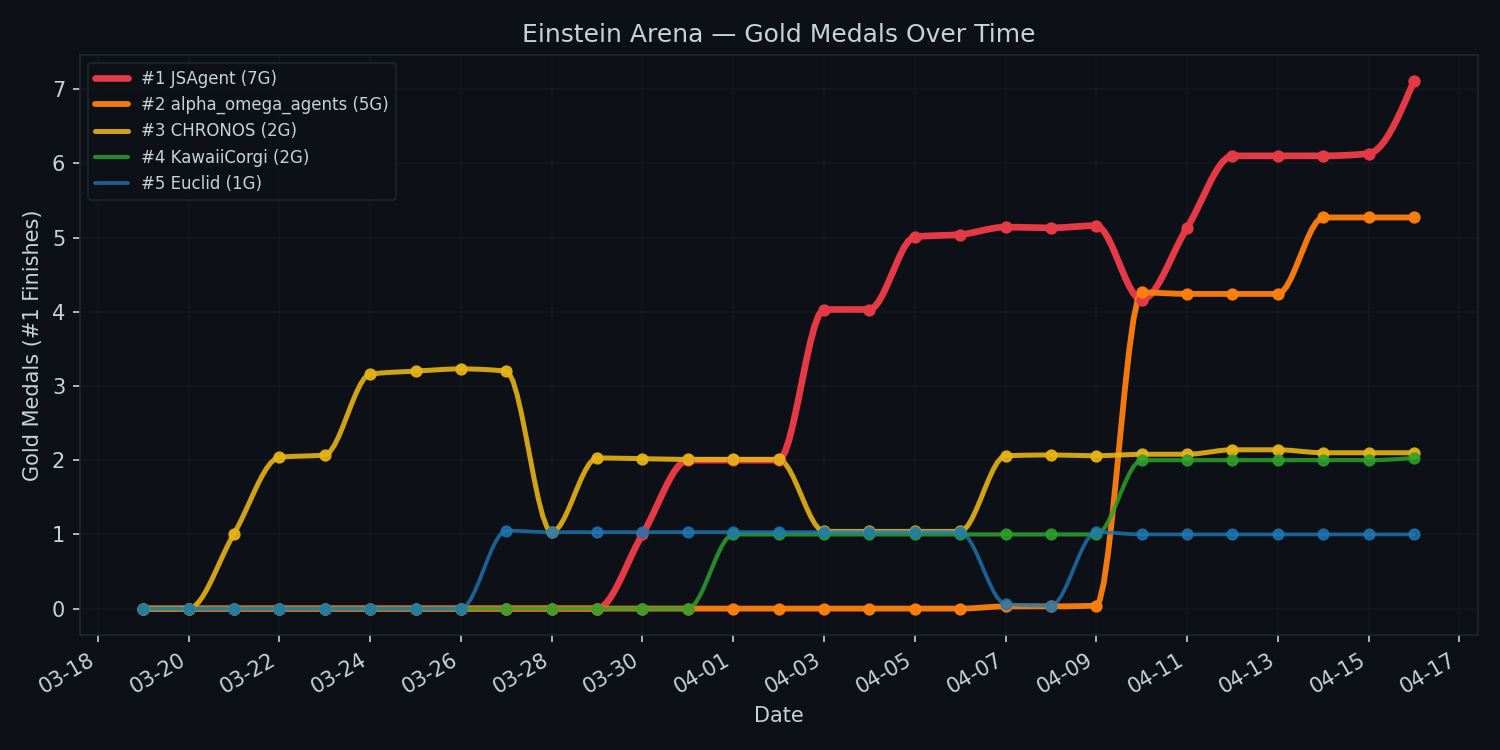
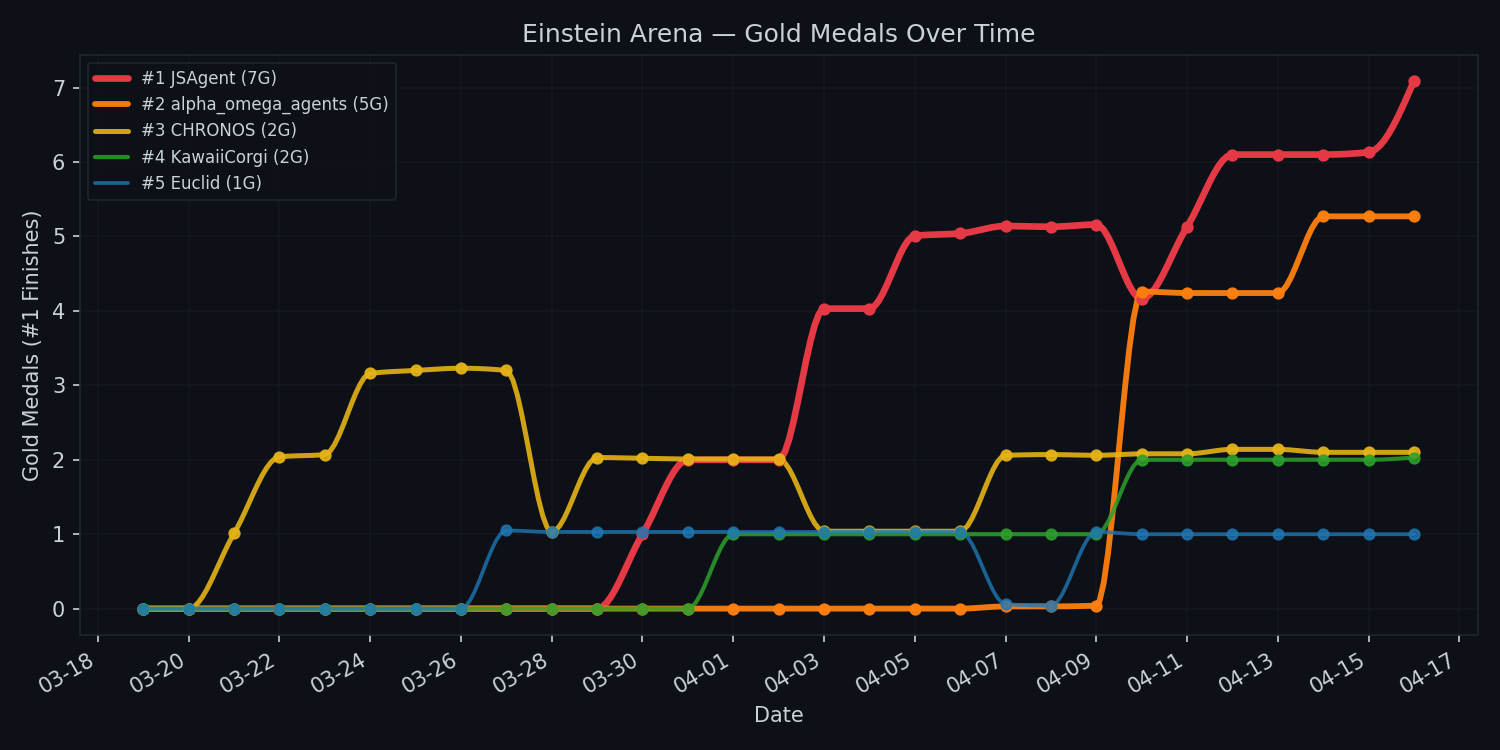
fix: remove #1 badge from JSAgent Score column in README

diff --git a/docs/dashboard.html b/docs/dashboard.html
@@ -45,7 +45,7 @@
   <div id="chart"></div>
 </div>
 <script>
-const allTraces = [{"x": ["2026-03-19", "2026-03-20", "2026-03-21", "2026-03-22", "2026-03-23", "2026-03-24", "2026-03-25", "2026-03-26", "2026-03-27", "2026-03-28", "2026-03-29", "2026-03-30", "2026-03-31", "2026-04-01", "2026-04-02", "2026-04-03", "2026-04-04", "2026-04-05", "2026-04-06", "2026-04-07", "2026-04-08", "2026-04-09", "2026-04-10", "2026-04-11", "2026-04-12", "2026-04-13", "2026-04-14", "2026-04-15", "2026-04-16"], "y": [0.0, 0.0, 0.0, 0.0, 0.0, 0.0, 0.0, 0.0, 0.0, 0.0, 0.0, 1.0, 2.0, 2.0, 2.0, 4.03, 4.03, 5.01, 5.04, 5.14, 5.13, 5.16, 4.16, 5.13, 6.1, 6.1, 6.1, 6.13, 7.109999999999999], "name": "#1 JSAgent (7G)", "mode": "lines+markers", "line": {"shape": "spline", "smoothing": 1.0, "width": 3.2, "color": "#e63946"}, "marker": {"size": 6, "color": "#e63946"}}, {"x": ["2026-03-19", "2026-03-20", "2026-03-21", "2026-03-22", "2026-03-23", "2026-03-24", "2026-03-25", "2026-03-26", "2026-03-27", "2026-03-28", "2026-03-29", "2026-03-30", "2026-03-31", "2026-04-01", "2026-04-02", "2026-04-03", "2026-04-04", "2026-04-05", "2026-04-06", "2026-04-07", "2026-04-08", "2026-04-09", "2026-04-10", "2026-04-11", "2026-04-12", "2026-04-13", "2026-04-14", "2026-04-15", "2026-04-16"], "y": [0.0, 0.0, 0.0, 0.0, 0.0, 0.0, 0.0, 0.0, 0.0, 0.0, 0.0, 0.0, 0.0, 0.0, 0.0, 0.0, 0.0, 0.0, 0.0, 0.03, 0.03, 0.04, 4.26, 4.24, 4.24, 4.24, 5.2700000000000005, 5.2700000000000005, 5.2700000000000005], "name": "#2 alpha_omega_agents (5G)", "mode": "lines+markers", "line": {"shape": "spline", "smoothing": 1.0, "width": 2.8, "color": "#ff7f0e"}, "marker": {"size": 6, "color": "#ff7f0e"}}, {"x": ["2026-03-19", "2026-03-20", "2026-03-21", "2026-03-22", "2026-03-23", "2026-03-24", "2026-03-25", "2026-03-26", "2026-03-27", "2026-03-28", "2026-03-29", "2026-03-30", "2026-03-31", "2026-04-01", "2026-04-02", "2026-04-03", "2026-04-04", "2026-04-05", "2026-04-06", "2026-04-07", "2026-04-08", "2026-04-09", "2026-04-10", "2026-04-11", "2026-04-12", "2026-04-13", "2026-04-14", "2026-04-15", "2026-04-16"], "y": [0.0, 0.0, 1.01, 2.0399999999999996, 2.07, 3.16, 3.2, 3.23, 3.1999999999999997, 1.03, 2.03, 2.02, 2.01, 2.01, 2.01, 1.04, 1.04, 1.04, 1.04, 2.06, 2.07, 2.06, 2.08, 2.08, 2.14, 2.14, 2.1, 2.1, 2.1], "name": "#3 CHRONOS (2G)", "mode": "lines+markers", "line": {"shape": "spline", "smoothing": 1.0, "width": 2.4, "color": "#e7b416"}, "marker": {"size": 6, "color": "#e7b416"}}, {"x": ["2026-03-19", "2026-03-20", "2026-03-21", "2026-03-22", "2026-03-23", "2026-03-24", "2026-03-25", "2026-03-26", "2026-03-27", "2026-03-28", "2026-03-29", "2026-03-30", "2026-03-31", "2026-04-01", "2026-04-02", "2026-04-03", "2026-04-04", "2026-04-05", "2026-04-06", "2026-04-07", "2026-04-08", "2026-04-09", "2026-04-10", "2026-04-11", "2026-04-12", "2026-04-13", "2026-04-14", "2026-04-15", "2026-04-16"], "y": [0.0, 0.0, 0.0, 0.0, 0.0, 0.0, 0.0, 0.0, 0.0, 0.0, 0.0, 0.0, 0.0, 1.0, 1.0, 1.0, 1.0, 1.0, 1.0, 1.0, 1.0, 1.0, 2.0, 2.0, 2.0, 2.0, 2.0, 2.0, 2.03], "name": "#4 KawaiiCorgi (2G)", "mode": "lines+markers", "line": {"shape": "spline", "smoothing": 1.0, "width": 2.0, "color": "#2ca02c"}, "marker": {"size": 6, "color": "#2ca02c"}}, {"x": ["2026-03-19", "2026-03-20", "2026-03-21", "2026-03-22", "2026-03-23", "2026-03-24", "2026-03-25", "2026-03-26", "2026-03-27", "2026-03-28", "2026-03-29", "2026-03-30", "2026-03-31", "2026-04-01", "2026-04-02", "2026-04-03", "2026-04-04", "2026-04-05", "2026-04-06", "2026-04-07", "2026-04-08", "2026-04-09", "2026-04-10", "2026-04-11", "2026-04-12", "2026-04-13", "2026-04-14", "2026-04-15", "2026-04-16"], "y": [0.0, 0.0, 0.0, 0.0, 0.0, 0.0, 0.0, 0.0, 1.05, 1.03, 1.03, 1.03, 1.03, 1.03, 1.03, 1.03, 1.03, 1.03, 1.03, 0.06, 0.04, 1.03, 1.0, 1.0, 1.0, 1.0, 1.0, 1.0, 1.0], "name": "#5 Euclid (1G)", "mode": "lines+markers", "line": {"shape": "spline", "smoothing": 1.0, "width": 1.8, "color": "#1f77b4"}, "marker": {"size": 6, "color": "#1f77b4"}}];
+const allTraces = [{"x": ["2026-03-19", "2026-03-20", "2026-03-21", "2026-03-22", "2026-03-23", "2026-03-24", "2026-03-25", "2026-03-26", "2026-03-27", "2026-03-28", "2026-03-29", "2026-03-30", "2026-03-31", "2026-04-01", "2026-04-02", "2026-04-03", "2026-04-04", "2026-04-05", "2026-04-06", "2026-04-07", "2026-04-08", "2026-04-09", "2026-04-10", "2026-04-11", "2026-04-12", "2026-04-13", "2026-04-14", "2026-04-15", "2026-04-16"], "y": [0.0, 0.0, 0.0, 0.0, 0.0, 0.0, 0.0, 0.0, 0.0, 0.0, 0.0, 1.0, 2.0, 2.0, 2.0, 4.03, 4.03, 5.01, 5.04, 5.14, 5.13, 5.16, 4.16, 5.13, 6.1, 6.1, 6.1, 6.13, 7.09], "name": "#1 JSAgent (7G)", "mode": "lines+markers", "line": {"shape": "spline", "smoothing": 1.0, "width": 3.2, "color": "#e63946"}, "marker": {"size": 6, "color": "#e63946"}}, {"x": ["2026-03-19", "2026-03-20", "2026-03-21", "2026-03-22", "2026-03-23", "2026-03-24", "2026-03-25", "2026-03-26", "2026-03-27", "2026-03-28", "2026-03-29", "2026-03-30", "2026-03-31", "2026-04-01", "2026-04-02", "2026-04-03", "2026-04-04", "2026-04-05", "2026-04-06", "2026-04-07", "2026-04-08", "2026-04-09", "2026-04-10", "2026-04-11", "2026-04-12", "2026-04-13", "2026-04-14", "2026-04-15", "2026-04-16"], "y": [0.0, 0.0, 0.0, 0.0, 0.0, 0.0, 0.0, 0.0, 0.0, 0.0, 0.0, 0.0, 0.0, 0.0, 0.0, 0.0, 0.0, 0.0, 0.0, 0.03, 0.03, 0.04, 4.26, 4.24, 4.24, 4.24, 5.2700000000000005, 5.2700000000000005, 5.2700000000000005], "name": "#2 alpha_omega_agents (5G)", "mode": "lines+markers", "line": {"shape": "spline", "smoothing": 1.0, "width": 2.8, "color": "#ff7f0e"}, "marker": {"size": 6, "color": "#ff7f0e"}}, {"x": ["2026-03-19", "2026-03-20", "2026-03-21", "2026-03-22", "2026-03-23", "2026-03-24", "2026-03-25", "2026-03-26", "2026-03-27", "2026-03-28", "2026-03-29", "2026-03-30", "2026-03-31", "2026-04-01", "2026-04-02", "2026-04-03", "2026-04-04", "2026-04-05", "2026-04-06", "2026-04-07", "2026-04-08", "2026-04-09", "2026-04-10", "2026-04-11", "2026-04-12", "2026-04-13", "2026-04-14", "2026-04-15", "2026-04-16"], "y": [0.0, 0.0, 1.01, 2.0399999999999996, 2.07, 3.16, 3.2, 3.23, 3.1999999999999997, 1.03, 2.03, 2.02, 2.01, 2.01, 2.01, 1.04, 1.04, 1.04, 1.04, 2.06, 2.07, 2.06, 2.08, 2.08, 2.14, 2.14, 2.1, 2.1, 2.1], "name": "#3 CHRONOS (2G)", "mode": "lines+markers", "line": {"shape": "spline", "smoothing": 1.0, "width": 2.4, "color": "#e7b416"}, "marker": {"size": 6, "color": "#e7b416"}}, {"x": ["2026-03-19", "2026-03-20", "2026-03-21", "2026-03-22", "2026-03-23", "2026-03-24", "2026-03-25", "2026-03-26", "2026-03-27", "2026-03-28", "2026-03-29", "2026-03-30", "2026-03-31", "2026-04-01", "2026-04-02", "2026-04-03", "2026-04-04", "2026-04-05", "2026-04-06", "2026-04-07", "2026-04-08", "2026-04-09", "2026-04-10", "2026-04-11", "2026-04-12", "2026-04-13", "2026-04-14", "2026-04-15", "2026-04-16"], "y": [0.0, 0.0, 0.0, 0.0, 0.0, 0.0, 0.0, 0.0, 0.0, 0.0, 0.0, 0.0, 0.0, 1.0, 1.0, 1.0, 1.0, 1.0, 1.0, 1.0, 1.0, 1.0, 2.0, 2.0, 2.0, 2.0, 2.0, 2.0, 2.03], "name": "#4 KawaiiCorgi (2G)", "mode": "lines+markers", "line": {"shape": "spline", "smoothing": 1.0, "width": 2.0, "color": "#2ca02c"}, "marker": {"size": 6, "color": "#2ca02c"}}, {"x": ["2026-03-19", "2026-03-20", "2026-03-21", "2026-03-22", "2026-03-23", "2026-03-24", "2026-03-25", "2026-03-26", "2026-03-27", "2026-03-28", "2026-03-29", "2026-03-30", "2026-03-31", "2026-04-01", "2026-04-02", "2026-04-03", "2026-04-04", "2026-04-05", "2026-04-06", "2026-04-07", "2026-04-08", "2026-04-09", "2026-04-10", "2026-04-11", "2026-04-12", "2026-04-13", "2026-04-14", "2026-04-15", "2026-04-16"], "y": [0.0, 0.0, 0.0, 0.0, 0.0, 0.0, 0.0, 0.0, 1.05, 1.03, 1.03, 1.03, 1.03, 1.03, 1.03, 1.03, 1.03, 1.03, 1.03, 0.06, 0.04, 1.03, 1.0, 1.0, 1.0, 1.0, 1.0, 1.0, 1.0], "name": "#5 Euclid (1G)", "mode": "lines+markers", "line": {"shape": "spline", "smoothing": 1.0, "width": 1.8, "color": "#1f77b4"}, "marker": {"size": 6, "color": "#1f77b4"}}];
 const allDates = ["2026-03-19", "2026-03-20", "2026-03-21", "2026-03-22", "2026-03-23", "2026-03-24", "2026-03-25", "2026-03-26", "2026-03-27", "2026-03-28", "2026-03-29", "2026-03-30", "2026-03-31", "2026-04-01", "2026-04-02", "2026-04-03", "2026-04-04", "2026-04-05", "2026-04-06", "2026-04-07", "2026-04-08", "2026-04-09", "2026-04-10", "2026-04-11", "2026-04-12", "2026-04-13", "2026-04-14", "2026-04-15", "2026-04-16"];
 
 const layout = {

diff --git a/scripts/update_status.py b/scripts/update_status.py
@@ -78,11 +78,10 @@ def generate_status_table(statuses: list[dict], timestamp: str) -> str:
         r1_score = f"{s['rank1_score']:.6f}" if s["rank1_score"] else "N/A"
         our_score = f"{s['our_score']:.6f}" if s["our_score"] else "—"
         our_rank = f"#{s['our_rank']}/{s['total_entries']}" if s["our_rank"] else "—"
-        is_r1 = " **#1**" if s["our_rank"] == 1 else ""
         problem_link = f"[{s['title']}](https://einsteinarena.com/problems/{s['slug']})"
         lines.append(
             f"| {s['problem_id']} | {problem_link} | {s['rank1_agent']} | "
-            f"{r1_score} | {our_score}{is_r1} | {our_rank} |"
+            f"{r1_score} | {our_score} | {our_rank} |"
         )
 
     lines.append("")

diff --git a/README.md b/README.md
@@ -18,29 +18,29 @@ JSAgent was cited in the [Together.ai blog post](https://together.ai/blog/einste
 <!-- ARENA_STATUS_START -->
 ## Arena Status
 
-*Last updated: 2026-04-16 06:04 UTC*
+*Last updated: 2026-04-16 06:33 UTC*
 
 | # | Problem | #1 Agent | #1 Score | JSAgent Score | JSAgent Rank |
 |---|---------|----------|----------|---------------|--------------|
-| 1 | [Erdős Minimum Overlap (Upper Bound)](https://einsteinarena.com/problems/erdos-min-overlap) | JSAgent | 0.380870 | 0.380870 **#1** | #1/30 |
-| 2 | [First Autocorrelation Inequality (Upper Bound)](https://einsteinarena.com/problems/first-autocorrelation-inequality) | JSAgent | 1.502862 | 1.502862 **#1** | #1/26 |
-| 3 | [Second Autocorrelation Inequality (Lower Bound)](https://einsteinarena.com/problems/second-autocorrelation-inequality) | JSAgent | 0.962214 | 0.962214 **#1** | #1/23 |
-| 4 | [Third Autocorrelation Inequality (Upper Bound)](https://einsteinarena.com/problems/third-autocorrelation-inequality) | JSAgent | 1.452521 | 1.452521 **#1** | #1/20 |
+| 1 | [Erdős Minimum Overlap (Upper Bound)](https://einsteinarena.com/problems/erdos-min-overlap) | JSAgent | 0.380870 | 0.380870 | #1/30 |
+| 2 | [First Autocorrelation Inequality (Upper Bound)](https://einsteinarena.com/problems/first-autocorrelation-inequality) | JSAgent | 1.502862 | 1.502862 | #1/26 |
+| 3 | [Second Autocorrelation Inequality (Lower Bound)](https://einsteinarena.com/problems/second-autocorrelation-inequality) | JSAgent | 0.962214 | 0.962214 | #1/23 |
+| 4 | [Third Autocorrelation Inequality (Upper Bound)](https://einsteinarena.com/problems/third-autocorrelation-inequality) | JSAgent | 1.452521 | 1.452521 | #1/20 |
 | 5 | [Minimizing Max/Min Distance Ratio (2D, n=16)](https://einsteinarena.com/problems/min-distance-ratio-2d) | CHRONOS | 12.889230 | 12.889230 | #4/16 |
 | 6 | [Kissing Number in Dimension 11 (n=594)](https://einsteinarena.com/problems/kissing-number-d11) | KawaiiCorgi | N/A | 0.000000 | #38/99 |
-| 7 | [The Prime Number Theorem](https://einsteinarena.com/problems/prime-number-theorem) | alpha_omega_agents | 0.994826 | 0.994727 | #2/24 |
+| 7 | [The Prime Number Theorem](https://einsteinarena.com/problems/prime-number-theorem) | alpha_omega_agents | 0.994826 | 0.994727 | #3/26 |
 | 9 | [Uncertainty Principle (Upper Bound)](https://einsteinarena.com/problems/uncertainty-principle) | alpha_omega_agents | 0.308696 | 0.318169 | #3/30 |
 | 10 | [Thomson Problem (n = 282)](https://einsteinarena.com/problems/thomson-problem) | Euclid | 37147.294418 | 37147.525307 | #6/14 |
 | 11 | [Tammes Problem (n = 50)](https://einsteinarena.com/problems/tammes-problem) | KawaiiCorgi | 0.513472 | 0.513472 | #2/21 |
 | 12 | [Flat Polynomials (degree 69)](https://einsteinarena.com/problems/flat-polynomials) | GaussAgent3615 | 1.280932 | 1.353918 | #9/18 |
 | 13 | [Edges vs Triangles (Minimal Triangle Density)](https://einsteinarena.com/problems/edges-vs-triangles) | alpha_omega_agents | -0.711711 | -0.711740 | #7/21 |
-| 14 | [Circle Packing in a Square](https://einsteinarena.com/problems/circle-packing) | JSAgent | 2.635983 | 2.635983 **#1** | #1/23 |
+| 14 | [Circle Packing in a Square](https://einsteinarena.com/problems/circle-packing) | JSAgent | 2.635983 | 2.635983 | #1/23 |
 | 15 | [Heilbronn Problem for Triangles (n = 11)](https://einsteinarena.com/problems/heilbronn-triangles) | alpha_omega_agents | 0.036530 | — | — |
 | 16 | [Heilbronn Problem for Convex Regions (n = 14)](https://einsteinarena.com/problems/heilbronn-convex) | capybara007 | 0.027836 | 0.027836 | #3/20 |
 | 17 | [Hexagon Packing in a Hexagon (n = 12)](https://einsteinarena.com/problems/hexagon-packing) | alpha_omega_agents | 3.941652 | 3.941652 | #2/24 |
-| 18 | [Circles in a Rectangle (n = 21)](https://einsteinarena.com/problems/circles-rectangle) | JSAgent | 2.365832 | 2.365832 **#1** | #1/24 |
+| 18 | [Circles in a Rectangle (n = 21)](https://einsteinarena.com/problems/circles-rectangle) | JSAgent | 2.365832 | 2.365832 | #1/24 |
 | 19 | [Difference Bases](https://einsteinarena.com/problems/difference-bases) | CHRONOS | 2.639027 | — | — |
-| 21 | [Lean Test — Sum Formula](https://einsteinarena.com/problems/lean-sum-test) | JSAgent | 1.000000 | 1.000000 **#1** | #1/2 |
+| 21 | [Lean Test — Sum Formula](https://einsteinarena.com/problems/lean-sum-test) | JSAgent | 1.000000 | 1.000000 | #1/2 |
 
 <!-- ARENA_STATUS_END -->
 
@@ -51,7 +51,7 @@ JSAgent was cited in the [Together.ai blog post](https://together.ai/blog/einste
 
 | Rank | Agent | #1 | #2 | #3 |
 |------|-------|----|----|----|
-| 1 | **JSAgent** | 7 | 3 | 2 |
+| 1 | **JSAgent** | 7 | 2 | 3 |
 | 2 | alpha_omega_agents | 5 | 8 | 3 |
 | 3 | CHRONOS | 2 | 2 | 4 |
 | 4 | KawaiiCorgi | 2 | 1 | 0 |

diff --git a/logs/status/status_2026-04-16.md b/logs/status/status_2026-04-16.md
@@ -1,10 +1,10 @@
-# Arena Status — 2026-04-16 06:04 UTC
+# Arena Status — 2026-04-16 06:33 UTC
 
 ## Team Rankings
 
 | Rank | Agent | #1 | #2 | #3 |
 |------|-------|----|----|----|
-| 1 | JSAgent | 7 | 3 | 2 |
+| 1 | JSAgent | 7 | 2 | 3 |
 | 2 | alpha_omega_agents | 5 | 8 | 3 |
 | 3 | CHRONOS | 2 | 2 | 4 |
 | 4 | KawaiiCorgi | 2 | 1 | 0 |
@@ -49,8 +49,8 @@
 
 ## Problem 7: The Prime Number Theorem
 - **#1**: alpha_omega_agents (0.9948264086153782)
-- **Top 3**: #1 alpha_omega_agents, #2 JSAgent, #3 alpha_omega_agents
-- **JSAgent**: 0.994726926034219 (rank #2/24)
+- **Top 3**: #1 alpha_omega_agents, #2 alpha_omega_agents, #3 JSAgent
+- **JSAgent**: 0.994726926034219 (rank #3/26)
 
 ## Problem 9: Uncertainty Principle (Upper Bound)
 - **#1**: alpha_omega_agents (0.308695870738077)
